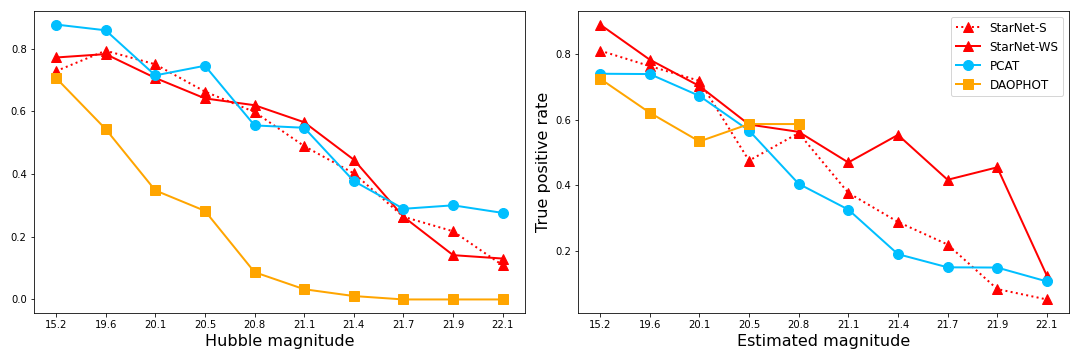
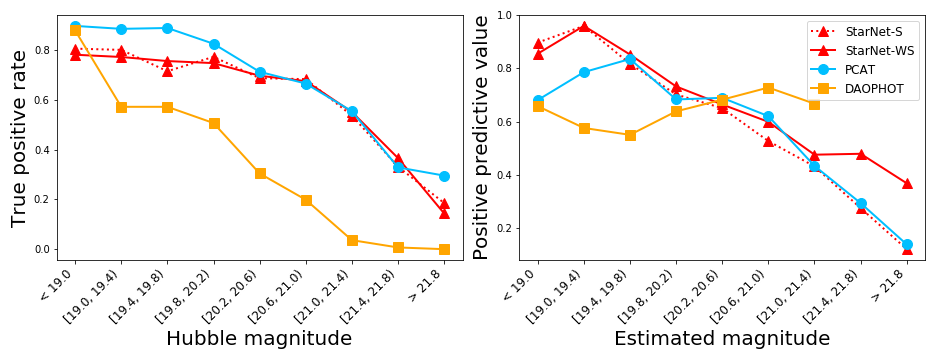
revisions after first review by Bastien

diff --git a/1-introduction.tex b/1-introduction.tex
@@ -1,13 +1,12 @@
 Astronomical images record the arrival of photons from distant light sources. 
 These images are one of the few sources of information about the universe beyond our solar system.
 Typically, astronomical catalogs are constructed from this image data.
-Catalogs label light sources as stars, galaxies, or other objects; 
-they also list the physical characteristics of light sources such as flux, color, and morphology. 
+Catalogs label light sources as stars, galaxies, or other objects; they also list the physical characteristics of light sources such as flux, color, and morphology. 
 These catalogs are the starting point for many downstream analyses.
 For example, Bayestar used a catalog of stellar fluxes and colors to construct the 3D distribution of interstellar dust~\cite{Green_2019_argonaut}. 
-Catalogs of galaxy morphologies have been used to validate theoretical models of dark matter and dark energy~\cite{Eisenstein_2005_darkmatter}. 
+Catalogs of galaxy morphologies have been used to validate theoretical models of dark matter and dark energy~\cite{Abbott2018}. 
 
-Catalog construction is straightforward when light sources are well separated. Each light source produces a single peak intensity on the image, and characteristics of the light source such as flux can be estimated by analyzing photon counts in the surrounding pixels. 
+Catalog construction is straightforward when light sources are well separated. Each light source produces a single peak intensity on the image, and characteristics of the light source such as flux can be estimated by analyzing photon counts on the peak and the surrounding pixels. 
 However, in images crowded with light sources, peak intensities may be the result of the combined light from multiple sources.
 Light source separation, or {\itshape deblending}, is the task of characterizing each individual light source from an overlapping peak intensity on an image. 
 A key challenge in deblending is inferring whether a peak intensity is in fact blended, that is, whether the peak is comprised of a single bright source or multiple dimmer sources. 
@@ -19,16 +18,17 @@ A key challenge in deblending is inferring whether a peak intensity is in fact b
 Deblending is challenging for several reasons.
 First, it is an unsupervised problem without ground truth labeled data. 
 Secondly, it is a problem with a sample size of one: there is only one night sky, which is imaged many times, and the collected survey images capture overlapping regions of it.
-Third, for blended fields, the properties of light sources are especially ambiguous as pixel intensities may be attributed to multiple sources. Therefore, providing calibrated uncertainty quantification is as important as making accurate predictions.
-Finally, the scale of the data is immense by any standard. The upcoming Large Synoptic Survey Telescope (LSST) survey, scheduled to begin data collection in 2022, is expected to produce 50 petabytes of astronomical images over its lifetime~\cite{LSST_about}.
+Third, for blended fields, the properties of light sources are especially ambiguous and therefore, providing calibrated uncertainty quantification is as important as making accurate predictions.
+Finally, the scale of the data is immense by any standard. The upcoming Rubin Observatory Legacy Survey of Space and Time (LSST) survey, scheduled to begin data collection in 2022, is expected to produce 60 petabytes of astronomical images over its lifetime~\cite{LSST_about}.
 
 As more powerful telescopes are developed and their ability to detect more distant light sources improves, the density of light sources in the images they capture will only increase. 
-For instance, \cite{Bosch_2017_LSST} estimates that in LSST, 68\% of the light sources will be blended. Therefore, developing a method to produce reliable catalogs, even in cases of significant light source blending, would advance astronomical research. 
+For instance, \cite{Bosch_2017_LSST} estimates that 58\% of light sources are blended in images captured by the Subaru Telescope’s Hyper Suprime-Cam, and that percentage is expected to increase for LSST. 
+Therefore, developing a method that reliably characterizes light sources, even in cases of significant light source blending, 
+is critical for astronomical research where conclusions about the physical universe are derived from estimated catalogs. 
 
-% We focus our attention on applications where all sources are well-modeled as points without spatial extent.
-% We use the M2 globular cluster, a region of the sky densely populated by stars, 
-% as a test bed for our method. 
-% Other applications of point-source models include DECam~\cite{Schlafly_2018_DECam}, which imaged the center of our own Milky Way and WISE~\cite{Wright_2010_WISESurvey}, whose telescope resolution did not allow for differentiation between stars and galaxies.
+We focus on cataloging applications where all light sources are well-modeled as points without spatial extent. 
+Point-source models are applicable to surveys such as DECam~\cite{Schlafly_2018_DECam}, which imaged the center of our own Milky Way, and WISE~\cite{Wright_2010_WISESurvey}, whose telescope resolution did not allow for differentiation between stars and galaxies.
+In this work, we use the globular cluster M2, a region imaged by the Sloan Digital Sky Survey (SDSS) and densely populated with stars, as a test bed for our method. 
 
 \bigbreak
 
@@ -39,9 +39,9 @@ These pipelines involve the following stages: locating the brightest peaks, esti
 These stages may be performed iteratively.
 These pipelines do not normally produce statistically calibrated error estimates that propagate 
 the uncertainty accumulating in each step of the pipeline. 
-Therefore, most of these pipelines do not work well for highly blended light sources where ambiguity exists in identifying sources and estimating their characteristics.
-For example, PHOTO~\cite{lupton2001sdss}, the default cataloging pipeline used by the Sloan Digital Sky Survey (SDSS), fails to 
-produce a catalog for certain crowded starfields known as globular clusters~\cite{Portillo_2017}. 
+Therefore, most of these pipelines are unreliable for highly blended light sources where ambiguity exists in identifying sources and estimating their characteristics.
+For example, PHOTO~\cite{lupton2001sdss}, the default cataloging pipeline used by the Sloan Digital Sky Survey (SDSS), failed to 
+produce a catalog on the globular cluster M2~\cite{Portillo_2017}. 
 
 In contrast, {\itshape probabilistic} cataloging posits a statistical model consisting of a likelihood for the observed image and a prior distribution over possible catalogs~\cite{Portillo_2017, Brewer_2013, Feder_2019}. 
 Instead of deriving a single catalog, probabilistic cataloging produces a posterior distribution over the set of all possible catalogs. 
@@ -82,7 +82,7 @@ This simplification was made in order to have a tractable objective for numerica
 \nopagebreak[4]
 
 We propose {\itshape StarNet}, a deblending approach employing several recent VI innovations~\cite{zhang2019advances,le2020revisiting}.
-Unlike \cite{regier2019_celeste}, our VI approach is able to handle arbitrary probabilistic models, including a transdimensional model with an unknown number of sources. Section~\ref{sec:gen_model} introduces the statistical model, which is similar to the model used in PCAT. Like PCAT, StarNet considers applications where all sources are well modeled as points without spatial extent, with starfields being a primary example. 
+Unlike \cite{regier2019_celeste}, our VI approach is able to handle arbitrary probabilistic models, including a transdimensional model with an unknown number of sources. Section~\ref{sec:gen_model} introduces the statistical model, which is similar to the model used in PCAT. .
 
 Secondly, unlike~\cite{regier2019_celeste}, 
 we employ {\itshape amortization}, which enables StarNet to scale inference to large astronomical surveys. 
@@ -107,7 +107,8 @@ The wake-sleep algorithm has been used in previous research to train deep genera
 However, to the best of our knowledge, this is the first application of wake-sleep for scientific purposes. 
 Specifically, we use wake-sleep for inference to find a latent space that is interpretable, as it is the set of all possible astronomical catalogs.
 
-We validated StarNet on the M2 globular cluster, a region of the sky densely populated by stars. StarNet was more accurate than the MCMC-based cataloger PCAT and traditional cataloging approaches while running $100,000$ times faster than the former (Section~\ref{sec:results_on_m2}).
+
+We validated StarNet on the M2 globular cluster. StarNet was more accurate than the MCMC-based cataloger PCAT and traditional cataloging approaches while running $100,000$ times faster than the former (Section~\ref{sec:results_on_m2}).
 While the MCMC posterior approximation converges to the exact posterior asymptotically, over finite horizons an MCMC sampler may not mix well. The sleep-phase objective from the Wake-Sleep algorithm allows StarNet to circumvent many of the challenges of nonconvex optimization.
 (Section~\ref{sec:discussion}).
 

diff --git a/4a-wake_sleep.tex b/4a-wake_sleep.tex
@@ -10,14 +10,16 @@ is closely related to the reparameterization trick \cite{kingma2013autoencoding,
 These approaches all sample latent variables from $q_\eta$ and produce an unbiased estimate 
 for the gradient of the KL; the optimization is done with stochastic gradient descent. 
 
-However, the reparameterization trick does not apply when a latent variable -- in our case, the number of stars $N$ -- is discrete. The REINFORCE estimator~\cite{Williams1992reinforce}, which BBVI adapts, produces an unbiased stochastic gradient for both continuous and discrete latent variables. However, these gradients often suffer from high variance in practice, and so the resulting stochastic optimization is slow. See Appendix~\ref{sec:reparam_details} for details concerning both the reparameterization and REINFORCE estimators. 
+However, the reparameterization trick does not apply when a latent variable -- in our case, the number of stars $N$ -- is discrete. The REINFORCE estimator~\cite{Williams1992reinforce}, which BBVI adapts, produces an unbiased stochastic gradient for both continuous and discrete latent variables.
+However, these gradients often suffer from high variance in practice, and so the resulting stochastic optimization is slow. We find this to be true in our application as well (Section~\ref{sec:elbo_sleep_compare}). 
+See Appendix~\ref{sec:reparam_details} for details concerning both the reparameterization and REINFORCE estimators. 
 
 They key difficulty in constructing stochastic gradients of the ELBO is that the integrating distribution depends on the optimization parameter $\eta$. 
 {\itshape The wake-sleep algorithm}, originally proposed by~\cite{Hinton1995wake_sleep}, replaces the 
 ELBO objective with 
 \begin{align}
     \mathcal{L}_{sleep}(\eta) := 
-    - \Expect_{x \sim p(x)}\Big[\KL(p(z | x) \| q_\eta(z | x)\Big]
+    - \Expect_{x \sim p(x)}\Big[\KL(p(z | x) \| q_\eta(z | x))\Big]
     \label{eq:sleep_obj},
 \end{align}
 known as the {\itshape sleep objective}.  Section~\ref{sec:sleep_details} details a simple gradient estimator that does not require reparameterization or REINFORCE. 
@@ -30,7 +32,9 @@ However, the minimization of $\KL$ with arguments reversed does.
 As will be detailed in Section~\ref{sec:sleep_details}, the outer expectation over the data in~\eqref{eq:sleep_obj} makes this optimization objective tractable without dependence on $p(x)$. 
 
 The expectation over the data also gives different meaning to the sleep objective. The ELBO objective seeks $\eta$ to minimize the $\KL$ between $q_\eta(z | x)$ and $p(z | x)$ {\itshape for fixed, observed data $x$},
-in this case the $H\times W$ image. In contrast, the sleep objective seeks to minimize the $\KL$ {\itshape averaged over all possible data. } In other words, the target is no longer an approximate posterior for observed data, but rather an approximate posterior that is ``good on average" over all possible data.
+in this case the $H\times W$ image.
+In contrast, the sleep objective seeks to minimize the $\KL$ {\itshape on average over all possible data $x$}, as weighted by the generative model $p(x)$. 
+In other words, the target is no longer an approximate posterior for observed data, but rather an approximate posterior that is ``good on average" over possible data.
 
 Moreover, ``possible data" is defined under the generative model from Section~\ref{sec:gen_model}. Therefore, it is imperative that the generative model $p(x)$ approximates the true underlying data-generating mechanism well. 
 
@@ -41,8 +45,9 @@ $\phi:=(\pi, \beta)$ be the concatenation of all model parameters, and denote th
 To estimate model parameters, one would ideally optimize the marginal log-likelihood $\log p_\phi(x)$.
 However, since $\log p_\phi(x)$ is intractable, the wake-phase optimizes for $\phi$ using the ELBO objective~\eqref{eq:elbo}
 as a surrogate for the intractable log-likelihood. 
-The ELBO is a lower bound
-$\log p_\phi(x)$; it is equal to $\log p_\phi(x)$ when $q_\eta(z | x)$ 
+The ELBO is a lower bound of
+$\log p_\phi(x)$; 
+it is equal to $\log p_\phi(x)$ when $q_\eta(z | x)$ 
 = $p_\phi(z | x)$. 
 
 The {\itshape wake-sleep} algorithm alternates between the two objectives: 

diff --git a/3-var_inference.tex b/3-var_inference.tex
@@ -60,7 +60,7 @@ the tile $\tilde x_{st}$ is composed of the following pixels:
     \tilde x_{st} = \{x_{hw} : Rs \leq h \leq R(s+1) \text{ and } Rt \leq w \leq R(t+1)\}.
     \label{eq:tiles}
 \end{align}
-Figure~\ref{fig:ex_tiles} gives an example.
+Figure~\ref{fig:ex_tiles} gives an example with $R = 2$. 
 \begin{figure}[!ht]
     \centering
     \includegraphics[width = 0.5\textwidth]{figures/example_tiled.png}
@@ -83,7 +83,7 @@ on each tile:
 \end{align}
 where $\tilde\ell_{N, i}^{(s, t)}$ and $\tilde f_{N, i}^{(s, t)}$ are the elements of the triangular array corresponding to location and fluxes, respectively. 
 
-Tile locations $\tilde\ell_{N, i}^{(s, t)} \in [0, R]\times[0, R]$ give the location of stars within a tile. The fluxes $\tilde f_{N, i}^{(s, t)}$ are vectors in $\mathbb{R}^B$ (one flux for each band), where each entry is positive. 
+Tile locations $\tilde\ell_{N, i}^{(s, t)} \in [0, R]\times[0, R]$ give the location of stars within a tile. The fluxes $\tilde f_{N, i}^{(s, t)}$ are vectors in $\mathbb{R}^B_+$ (one flux for each band). 
 
 Call $(\tilde N^{(s, t)}, \tilde \ell^{(s, t)}, \tilde f^{(s, t)})_{s=1,t=1}^{S,T}$ the {\itshape tile latent variables}; 
 succinctly denote tile latent variables as $\tilde z$. 
@@ -146,7 +146,7 @@ If $\tau$ is the mapping in~\eqref{eq:patch_to_full_map}, then the variational d
     q_\eta(z | x) := \tilde q_\eta(\tau^{-1}(z) | x),
     \label{eq:pull_back_of_q}
 \end{align}
-where $\tau^{-1}(z)$ is the pre-image of $z$.
+where $\tau^{-1}(z)$ is the pre-image of $z$ under $\tau$.
 
 \noindent{\bf Evaluating the variational distribution}
 
@@ -184,7 +184,7 @@ where $\mathbf{1}\{\cdot\}$ is the indicator function, equal to one if true and 
 Now, consider $\tilde\ell^{(s, t)}$ and $\tilde f^{(s, t)}$, the triangular array of locations and fluxes on tile $(s,t)$. 
 For each $(s,t)$, the $\tilde N^{(s,t)}$-th row 
 of the triangular array of fluxes and locations is
-determined by the locations and fluxes of stars imaged in tile $(s,t)$. However, the other rows 
+determined by the locations and fluxes of stars imaged in tile $(s,t)$; they are determined by the catalog $z$. However, the other rows 
 of the triangular arrays are not determined by 
 the catalog $z$; they are free to take any value in their domain. Therefore, the mapping $\tau$ is not injective. 
 
@@ -263,7 +263,12 @@ Let $\hat x^{(s,t)}$ denote the padded tile (which includes all $B$ bands) and $
     \label{eq:nn_output}
 \end{align}
 The same neural network is evaluated for all tiles $(s,t)$. Our variational parameters are neural network weights, here denoted $\eta$. 
-The architecture consists of several convolutional layers followed by a series of fully connected layers (Figure~\ref{fig:starnet_arch}). Convolutional layers are useful for localizing stars, as they make the network invariant to shifts in stellar location. The convolutional kernel in the first layer is $3\times3$ pixels, roughly the full width at half maximum (FWHM) of the PSF. The optimization of the architecture is left for future work; our focus in this paper is the application of neural networks to provide a variational posterior for cataloging starfields, not the network architecture per se. 
+The architecture consists of several convolutional layers followed by a series of fully connected layers (Figure~\ref{fig:starnet_arch}). 
+This combination of convolutions followed by fully connected layers has been successful on image classification challenges such as ImageNet~\cite{imagenet2015}. 
+The optimization of the architecture is left for future work; our focus in this paper is the application of neural networks to provide a variational posterior for cataloging starfields, not the network architecture per se. 
+
+
+% Convolutional layers are useful for localizing stars, as they make the network invariant to shifts in stellar location. The convolutional kernel in the first layer is $3\times3$ pixels, roughly the full width at half maximum (FWHM) of the PSF. 
 
 \begin{figure}[!tb]
     \centering

diff --git a/main.tex b/main.tex
@@ -16,6 +16,10 @@
 
 \newcommand{\rulesep}{\unskip\ \vrule\ }
 
+% line numbers
+\usepackage{lineno}
+\linenumbers
+
 \usepackage{amsfonts}
 \usepackage{wrapfig}
 \newcommand{\Prob}{P}
@@ -55,7 +59,14 @@
   \title{  \vspace{-30px}
 \bf Variational Inference for Deblending Crowded Starfields}
   \author{Runjing Liu
-  %\thanks{The authors gratefully acknowledge \textit{please remember to list all relevant funding sources in the unblinded version}. NSF graduate research fellowship etc ... }
+  \thanks{The author gratefully acknowledges support from the NSF graduate research fellowship program.  
+  This paper has undergone internal review in the LSST Dark Energy Science Collaboration. 
+  The internal reviewers were 
+  Bastien Arcelin,
+  Fran\c{c}ois Lanusse, and 
+  Peter Melchior. 
+  We would also like to acknowledge Derek Hansen, Ismael Mendoza, Zhe Zhao for their comments on this manuscript and dedicated work to our continued code development.
+  }
   \hspace{.2cm}\\
     Department of Statistics, University of California, Berkeley\\
     \\
@@ -64,7 +75,9 @@
     Department of Statistics, University of California, Berkeley\\
     \\
     Jeffrey Regier \\
-    Department of Statistics, University of Michigan
+    Department of Statistics, University of Michigan\\
+    \\
+    The LSST Dark Energy Science Collaboration
     }
   \maketitle
 } \fi
@@ -84,10 +97,10 @@
 \begin{abstract}
 In the image data collected by astronomical surveys, stars and galaxies often overlap.
 Deblending is the task of distinguishing and characterizing individual light sources from survey images.
-We propose a new, fully Bayesian method to deblend astronomical images of crowded star fields called StarNet.
+We propose StarNet, a fully Bayesian method to deblend sources in astronomical images of crowded star fields.
 StarNet leverages recent advances in variational inference, including amortized variational distributions and the Wake-Sleep algorithm.
 Wake-Sleep, which minimizes forward KL divergence, has significant benefits compared to traditional variational inference, which minimizes a reverse KL divergence.
-In our experiments with SDSS images of the M2 globular cluster, StarNet is substantially more accurate than two competing methods: Probablistic Cataloging (PCAT), a method that uses MCMC for inference, and a second method based on the traditional software pipeline used in deblending (DAOPHOT).
+In our experiments with SDSS images of the M2 globular cluster, StarNet is substantially more accurate than two competing methods: Probablistic Cataloging (PCAT), a method that uses MCMC for inference, and a software pipeline employed by SDSS for deblending (DAOPHOT).
 In addition, StarNet is as much as $100,000$ times faster than PCAT, exhibiting the scaling characteristics necessary to perform fully Bayesian inference on modern astronomical surveys.
 
 %Probabilistic cataloging defines a joint distribution on raw telescope images and their catalogs; ambiguities in catalog construction are captured by the Bayesian posterior.
@@ -149,9 +162,11 @@ In addition, StarNet is as much as $100,000$ times faster than PCAT, exhibiting 
 \input{A1-reparam_details}
 
 \section{Results on Stripe-82}
+\label{sec:results_sparse_field}
 \input{A2-results-sparse_field}
 
 \section{Sensitivity to prior parameters}
+\label{sec:prior_sensitivity}
 \input{A3-prior_sensitivity}
 
 % probably won't include these sections anymore

diff --git a/A3-prior_sensitivity.tex b/A3-prior_sensitivity.tex
@@ -1,9 +1,10 @@
-We examine the sensitivity of StarNet to the Poisson mean $\mu$ and the power-law slope $\alpha$ on the image M2. 
-The model appears reasonably robust. 
-As expected, the TPR increases as $\mu$ increases while the PPV decreases  -- the prior encourages more detections (Figure~\ref{fig:mu_sensitivity}). 
+We examine the sensitivity of StarNet to prior parameters $\mu$ and $\alpha$ on the image M2. 
+Recall $\mu$ is the prior mean number of stars per pixel~\eqref{eq:n_prior};
+$\alpha$ is the power law slope on the $r$-band fluxes~\eqref{eq:flux_prior}. 
+In the results of Section~\ref{sec:results_on_m2}, $\mu=0.15$ and  $\alpha = 0.5$. 
 
-As $\alpha$ increases, StarNet estimates more dim sources. While the TPR is similar across $\alpha$ values, the PPV suffers at $\alpha = 0.75$ (Figure~\ref{fig:alpha_sensitivity}).
-The stronger prior on dimmer stars also manifests in the flux distribution of the resulting StarNet catalog (Figure~\ref{fig:cdf_sensitivity}). 
+The model appears reasonably robust. 
+As expected, as $\mu$ increases the TPR increases while the PPV decreases  -- the prior encourages more detections (Figure~\ref{fig:mu_sensitivity}). 
 
 \begin{figure}[ht]
 \begin{subfigure}{\textwidth}
@@ -16,9 +17,9 @@ The stronger prior on dimmer stars also manifests in the flux distribution of th
 \toprule
      mu &   TPR &   PPV \\
 \midrule
- 1000&  0.49 &  0.69 \\
- 1500&  0.49 &  0.64 \\
- 2000 &  0.52 &  0.49 \\
+ 0.10 &  0.49 &  0.69 \\
+ 0.15 &  0.51 &  0.61 \\
+ 0.20 &  0.52 &  0.49 \\
 \bottomrule
 \end{tabular}
 \par\vspace{0pt}
@@ -27,6 +28,19 @@ The stronger prior on dimmer stars also manifests in the flux distribution of th
 \caption{Sensitivity of summary statistics to Poisson mean parameter on number of stars. }
 \label{fig:mu_sensitivity}
 \end{figure}
+
+As $\alpha$ increases, StarNet estimates more dim sources: the prior distribution on fluxes places more mass near $f_{min}$ (Figure~\ref{fig:flux_priors}). 
+
+\begin{figure}[!h]
+    \centering
+    \includegraphics[width = 0.6\textwidth]{figures/prior_fluxes.png}
+    \caption{The prior distribution on $r$-band magnitude for various power law slopes $\alpha$}
+    \label{fig:flux_priors}
+\end{figure}
+
+While the TPR is increases across $\alpha$ values, the PPV suffers at $\alpha = 0.75$ (Figure~\ref{fig:alpha_sensitivity}).
+At $\alpha = 0.75$, we see that the TPR improves at dimmer sources at the expense of brighter sources, suggesting that the brigher sources become over-split. 
+The stronger prior on dimmer stars also manifests in the flux distribution of the resulting StarNet catalog (Figure~\ref{fig:cdf_sensitivity}). 
 
 \begin{figure}[ht]
 \begin{subfigure}{\textwidth}
@@ -40,7 +54,7 @@ The stronger prior on dimmer stars also manifests in the flux distribution of th
  alpha &   TPR &   PPV \\
 \midrule
   0.25 &  0.45 &  0.64 \\
-  0.50 &  0.49 &  0.64 \\
+  0.50 &  0.51 &  0.61 \\
   0.75 &  0.51 &  0.53 \\
 \bottomrule
 \end{tabular}

diff --git a/2-generative_model.tex b/2-generative_model.tex
@@ -1,6 +1,6 @@
 In crowded starfields, such as globular clusters and the Milky Way, the vast majority of light sources are stars.
 These stars radiate photons. 
-An astronomical image records the number of these photons that have traveled through a telescope and arrived at each pixel. Typically, photons must pass through one of several filters, each absorbing energy within a specified band of wavelengths, before being recorded.
+An astronomical image records the number of these photons that reached a telescope and arrived at each pixel. Typically, photons must pass through one of several filters, each absorbing energy within a specified band of wavelengths, before being recorded.
 
 For a given $H \times W$ pixel image with $B$ filter bands, our goal is to infer a catalog of 
 stars. 
@@ -25,15 +25,15 @@ we do not simplify these models to make variational inference easier.
 \subsection{The prior}
 The prior over $\mathcal{Z}$ is a marked spatial Poisson process. First, draw the number of stars contained in the $H\times W$ image as
 \begin{align}
-	N &\sim \text{Poisson}(\mu HW).
+	N &\sim \text{Poisson}(\mu HW),
 	\label{eq:n_prior}
 \end{align}
-% \jeff{Better to talk about the marked point process later (or earlier, in the introduction). Just describe the model as simply as possible here.}
+where $\mu$ is the average number of sources per pixel.
 Next, draw locations
 \begin{align}
   \ell_1, ..., \ell_N | N &\stackrel{iid}{\sim} \text{Uniform}([0, H] \times [0, W]). 
  \end{align}
-The fluxes in the first band are from a power law distribution:
+The fluxes in the first band are from a power law distribution with slope $\alpha$:
 \begin{align}
     f_{1, 1}, ..., f_{N,1} | N & 
     \stackrel{iid}{\sim} \text{Pareto}(f_{min}, \alpha) 
@@ -46,6 +46,10 @@ Fluxes in other bands are described relative to the first band. Like~\cite{Feder
 \end{align}
 Given the flux in the first band $f_{i,1}$ and color $c_{i,b}$,
 the flux in band $b$ is  $f_{i,b} = f_{i,1} \times 10^{c_{i,b} / 2.5}$.
+
+Like~\cite{Feder_2019}, we set the power law slope $\alpha = 0.5$, and use a standard Gaussian for the color prior ($\mu_c = 0$, $\sigma^2_c = 1$). 
+Appendix~\ref{sec:prior_sensitivity} evaluates the 
+sensitivity of the resulting catalog to choices of the prior parameters. 
 
 \subsection{The likelihood}
 Let $x_{hw}^b$ denote the observed number of photoelectrons at pixel $(h,w)$ and band $b$. For each band, at every pixel, the expected number of photoelectron arrivals is $\lambda^b_{hw}(z)$, a deterministic function of the catalog $z$. Motivated by the Poissonian nature of photon arrivals, the observations are drawn

diff --git a/6-results-m2.tex b/6-results-m2.tex
@@ -17,8 +17,8 @@ The variational distribution factorizes into $2\times2$ tiles.
 The neural network inputs were $8\times8$ pixel padded tiles: 
 $2\times 2$ tiles along with three surrounding pixels of padding (see Figure~\ref{fig:starnet_arch}). 
 The SDSS estimates for the PSF and background were used in the first sleep phase. 
-This phase ran for 200 epochs with 200 images per epoch with  
-the Adam optimization routine~\cite{kingma2014adam}. 
+This phase ran for 200 epochs; at each epoch, 200 images were sampled from the generative model. 
+Optimization was done with Adam~\cite{kingma2014adam}. 
 On a single NVIDIA GeForce RTX 2080 Ti GPU, 
 the initial sleep phase took 15.2 minutes.
 
@@ -93,6 +93,12 @@ PCAT estimated the most stars of all methods, and it therefore had a large TPR b
 On the other hand, DAOPHOT estimated less than half the number of stars when compared to the other methods. It therefore had a large PPV but a small TPR. 
 The StarNet-WS catalog had the same PPV as DAOPHOT while having nearly the same TPR as PCAT. 
 
+Table~\ref{tab:summary_stats} also prints the number of stars inferred by each method. 
+For probabilistic methods (StarNet and PCAT), we display the mean number of stars under the approximate posterior, along with the 5-th and 95-th quantiles. 
+Neither PCAT nor StarNet captured the true number of stars in their 90\% credible interval, though StarNet-WS came the closest. 
+The StarNet credible intervals were three times wider than the PCAT intervals.
+The small PCAT credible intervals may be indicative of a MCMC sampler that failed to mix well. 
+
 \input{tables/summary_stats_m2.txt}
 
 The improvement of StarNet-WS in PPV was most pronounced for dim stars (Figure~\ref{fig:summary_stats}). The TPR for StarNet-WS was uniformly better than DAOPHOT for stars of all magnitudes. 
@@ -104,10 +110,9 @@ In contrast, DAOPHOT failed to find dim stars; its flux distribution assigned ze
     \centering
     \includegraphics[width=0.99\textwidth]{figures/summary_statistics_m2.png}
     \caption{True positive rate and positive predicted value of various cataloging
-    procedures on M2, plotted against magnitude.
-    Smaller magnitudes correspond to brighter stars. 
-    X-axis ticks correspond to Hubble magnitude deciles, so
-    each bin contains roughly the same number of stars.  }
+    procedures on M2, plotted against $r$-band magnitude.
+    Smaller magnitudes correspond to brighter stars.
+    }
     \label{fig:summary_stats}
 \end{figure}
 

diff --git a/7-discussion.tex b/7-discussion.tex
@@ -18,10 +18,13 @@ While labeled data from simulators have been used in other astronomy application
 % \jeff{Wake-sleep didn't really avoid the minima---it optimized a different objective entirely.}
 
 This variational approach, unlike previous MCMC approaches, enables StarNet to estimate model parameters such as the PSF and sky background.
-While the current work focuses on PSF models, our methodology can be extended to more general sources such as galaxies.
-One promising direction is to use a neural network for the generative model and fit a deep generative model for galaxies~\cite{Regier2015ADG}. 
+While the current work focuses on PSF models, our methodology can be extended to more general sources such as galaxies. 
+Unsurprisingly, the current performance of StarNet is sub-optimal for cataloging regions of the sky that contains both stars and galaxies due to model misfit (Appedix~\ref{sec:results_sparse_field}).  
+
+One promising direction is to use a neural network for the generative model and fit a deep generative model for galaxies~\cite{Arcelin_2020, lanusse2020deep, Reiman_2019_gans_deblend, Regier2015ADG}. 
 Here, a neural network encodes a conditional likelihood of galaxy images given a low dimensional galaxy representation. 
 Using a neural network to encode a likelihood extends the flexibility of galaxy models beyond the simple models used here. 
+
 
 % Going even further, models for artifacts such as cosmic rays and bleed trails~\cite{Desai_2016} could be estimated in this framework.
 % \jeff{Readers likely won't know what cosmic rays and bleed trails are. Maybe cite something here that explains them, for the curious reader.}

diff --git a/A2-results-sparse_field.tex b/A2-results-sparse_field.tex
@@ -8,8 +8,10 @@ Since this region of the sky is more sparse, we tile the image into $50\times 50
 Because this region of the sky also contains galaxies, only the sleep phase was employed to fit StarNet; 
 the wake phase would optimize the PSF to explain both stars and galaxies. 
 
-This image is contained in Stripe 82, a region of the sky repeatedly imaged by SDSS. Averaging images from different runs boosts the signal to noise ratio, resulting in a ``co-added" image. 
-The co-added image was analyzed with PHOTO to obtain a ground truth catalog. 
+This image is contained in Stripe 82, a region of the sky repeatedly imaged by SDSS.
+Averaging images from different runs boosts the signal to noise ratio, resulting in a ``co-added" image. 
+We compare the performance of StarNet and PHOTO on the {\itshape non} co-added image. 
+The PHOTO catalog of the co-added image was used as ground truth. 
 
 The TPR of StarNet is comparable with the TPR of the PHOTO catalog on the original (non co-added) image (Figure~\ref{fig:sparse_field}). 
 StarNet accrues false defections, namely galaxies, and thus we cannot compare the PPV. 
